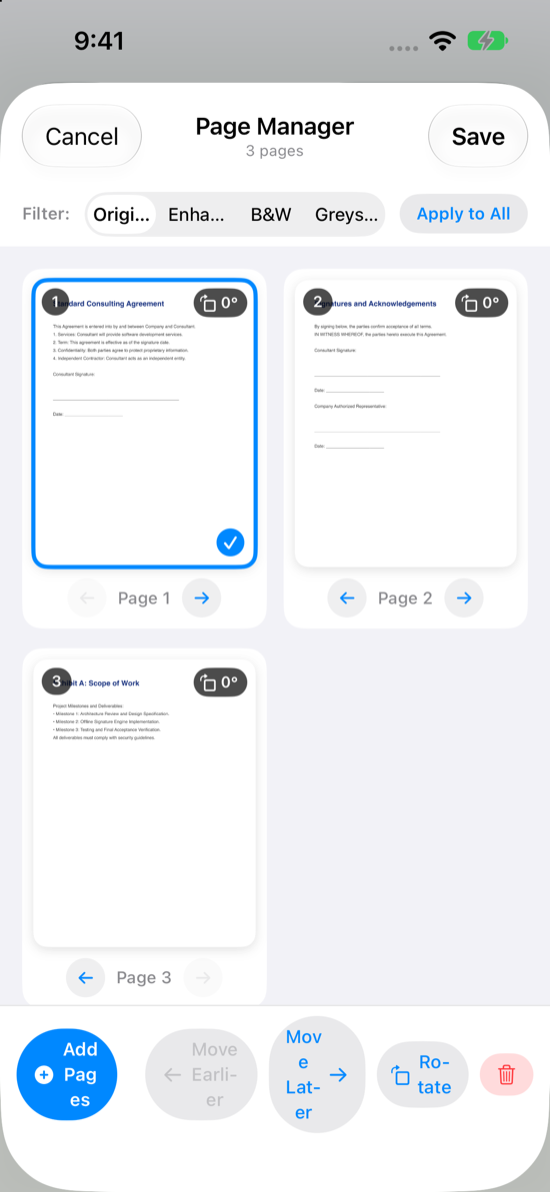
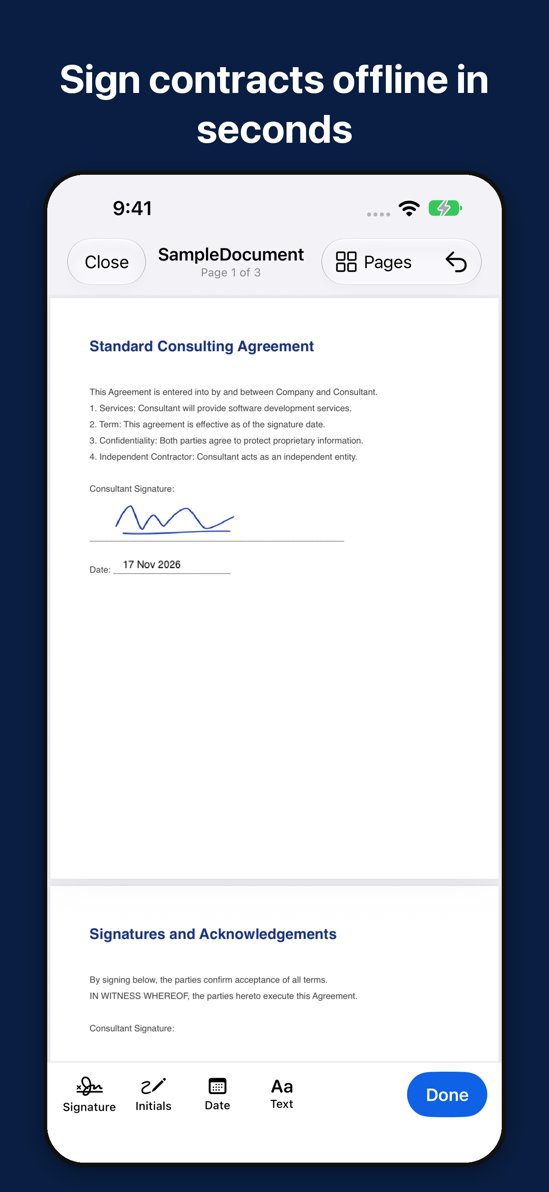
Docwise: App Store screenshots on the app page

diff --git a/docwise/index.md b/docwise/index.md
@@ -17,9 +17,9 @@ Docwise is the paperwork app for iPhone and iPad. Sign a PDF, fill in a form, sc
 </p>
 
 <div style="display: flex; gap: 14px; overflow-x: auto; padding: 16px 0; margin: 24px 0;">
-  <img src="screenshot-1.png" alt="Docwise Page Manager with scan filters, page reordering and rotation" style="width: 220px; border-radius: 18px; border: 1px solid #8883; flex-shrink: 0;" />
-  <img src="screenshot-2.png" alt="Docwise Shrink File screen with size units, JPEG or PDF output and KB presets" style="width: 220px; border-radius: 18px; border: 1px solid #8883; flex-shrink: 0;" />
-  <img src="screenshot-4.png" alt="Docwise Passport and Visa Photo screen with face guide and background replacement" style="width: 220px; border-radius: 18px; border: 1px solid #8883; flex-shrink: 0;" />
+  <img src="screenshot-1.png" alt="Docwise: sign contracts offline in seconds" style="width: 220px; border-radius: 18px; border: 1px solid #8883; flex-shrink: 0;" />
+  <img src="screenshot-2.png" alt="Docwise: shrink files under a target size in KB" style="width: 220px; border-radius: 18px; border: 1px solid #8883; flex-shrink: 0;" />
+  <img src="screenshot-3.png" alt="Docwise: official passport photos at home" style="width: 220px; border-radius: 18px; border: 1px solid #8883; flex-shrink: 0;" />
 </div>
 
 ---
